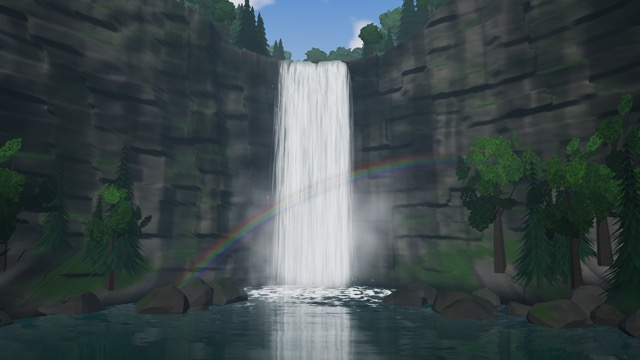
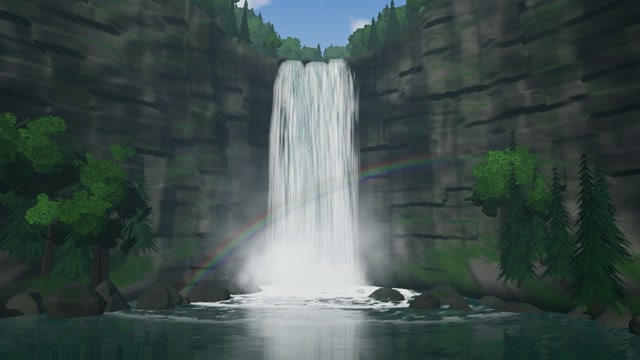
waterfall の滝の形と足もとを作り直し、水が砕けて噴き上がる演出と白波の輪を足す

diff --git a/docs/specs/waterfall.md b/docs/specs/waterfall.md
@@ -12,6 +12,7 @@
 - 横に長い 1 枚の格子で、崖の面から崖の上の台地まで続ける。滝の近くほど格子を細かくする。
 - 崖の形は滝を囲む弧で、両側ほど手前に迫る。縦の割れ目と地層で区切った岩の塊を、列ごと・段ごとに前後にずらす。足もとには崩れた斜面が張り出す（滝の近くには無い）。
 - 滝の裏はえぐれている。滝口のまわりは凹凸を抑え、水の帯が崖に埋もれないようにする。
+- 滝口の線は中央がくぼみ、両端へ上がる。細かな高低差も付けて、まっすぐな線に見えないようにする。
 - 色は頂点ごとに付ける。岩の明暗のまだら、岩肌を伝う水の縦のしみ、上向きの面と足もとの苔。滝の裏と水際は濡れて暗い。
 
 ## 木
@@ -41,16 +42,19 @@
 ## 滝
 
 - 細い水の帯を何本も重ねる（`StreamShader`）。帯は滝口から放物線を描いて水面まで落ちる。
+- 滝全体は下へ行くほど広がり、帯は隣の帯と揃って左右に寄る。まっすぐ落とすと、幅が一定の長方形に見える。
 - 筋の模様のテクスチャ（下が明るく上へ薄れる細長い水塊）を 2 枚重ねて流す。テクスチャの縦の座標を「落ちた秒数」にしているので、下へ行くほど模様が伸びて速くなる。流れる位相は JS で 0〜1 に収めてから渡す。
-- 滝口はなめらかな水の色で、落ちるにつれて白く泡立つ。帯ごとに白さを変えて縦の柱の模様にし、滝の端ほど薄くして岩を透かす。
+- 滝口はなめらかな水の色で、落ちるにつれて白く泡立つ。隣り合う帯の白さを揃えて太い縦の柱の模様にし、滝の端ほど薄くして岩を透かす。
 - 帯のまわりに、速さの向きに伸ばした線で水滴を落とす。
 
 ## 滝壺
 
 - 水面は `Reflector` で描いた映り込みを波で揺らす。揺らすのはほぼ縦の向きだけにする（横にも揺らすと、滝の映り込みが規則的なジグザグに見える）。斜めから見るほど強く映す（フレネル）。
-- 滝の落ちる線からの距離で、波と泡の模様を放射状に外へ流す。泡は滝に近いほど多く、外へ行くほどまばらになって消える。
+- 滝の落ちる線からの距離で、波と泡の模様を放射状に外へ流す。泡は滝に近いほど多く、外へ行くほどまばらになって消える。カメラが低いので、白い範囲が狭いと細い線につぶれて見える。そのため水面に広く取る。
+- 泡には外へ広がる白波の輪も重ねる。模様で位相をずらし、切れ切れの白波に見せる。
 - しぶきは滝の落ちる線から跳ね上がる粒。
-- 霧は大きなふわふわした粒で、立ちのぼるものと、滝の足もとで低くわき立つものがある。足もとの霧で滝と水面の境をぼかす。霧は奥行きの判定をしない（岩や水面に切られて輪郭が出ないように）。
+- 滝の落ちる線の上のあちこちで、水が砕けて塊で噴き上がる。1 回は短く、同じ所から水の線と水煙を一緒に出す。水の線は落ちる水と同じ重力で動かす（軽い粒で描くと、舞う雪に見える）。
+- 霧は大きなふわふわした粒で、立ちのぼるものと、滝の足もとで低くわき立つものがある。足もとの霧は滝の幅より外まで広げ、滝と水面の境をぼかす。霧は奥行きの判定をしない（岩や水面に切られて輪郭が出ないように）。
 - 起動直後から霧が立ちこめている状態にするため、10 秒ぶん先へ進めてから描き始める。
 
 ## 景色
@@ -72,8 +76,10 @@
 
 強度は水量。範囲は 0.13〜2 倍、最初は 1 倍で、1 回の操作で 1.25 倍ずつ変える。
 
-- 水の帯は中央に近い順に並べ、先頭から水量に比例した本数を描く。水量が増えると滝の幅が広がる。順番を少し乱して、端へは細い筋から増えていくようにする。
-- 水滴・しぶき・霧の数も水量に比例する。
+- 水の帯は中央に近い順に並べ、先頭から水量に比例した本数を描く。水量が増えると滝の幅が広がる。順番を少し乱して、端へは細い筋から増えていくようにする。中央は乱さない。乱すと、水量が少ないときに帯が散らばって薄く透けて見える。
+- 水滴・しぶき・霧の数と、水が噴き上がる回数も水量に比例する。
+
+水量が 1 倍より少ないときは、泡が広がる距離、滝の近くの波、霧の濃さと大きさ、しぶきと噴き上がる水の速さも小さくする。細い滝に対して足もとが大きく見えないようにする。滝の幅が変わらなくても、水の勢いの差が分かる。
 
 ## 描き方
 
